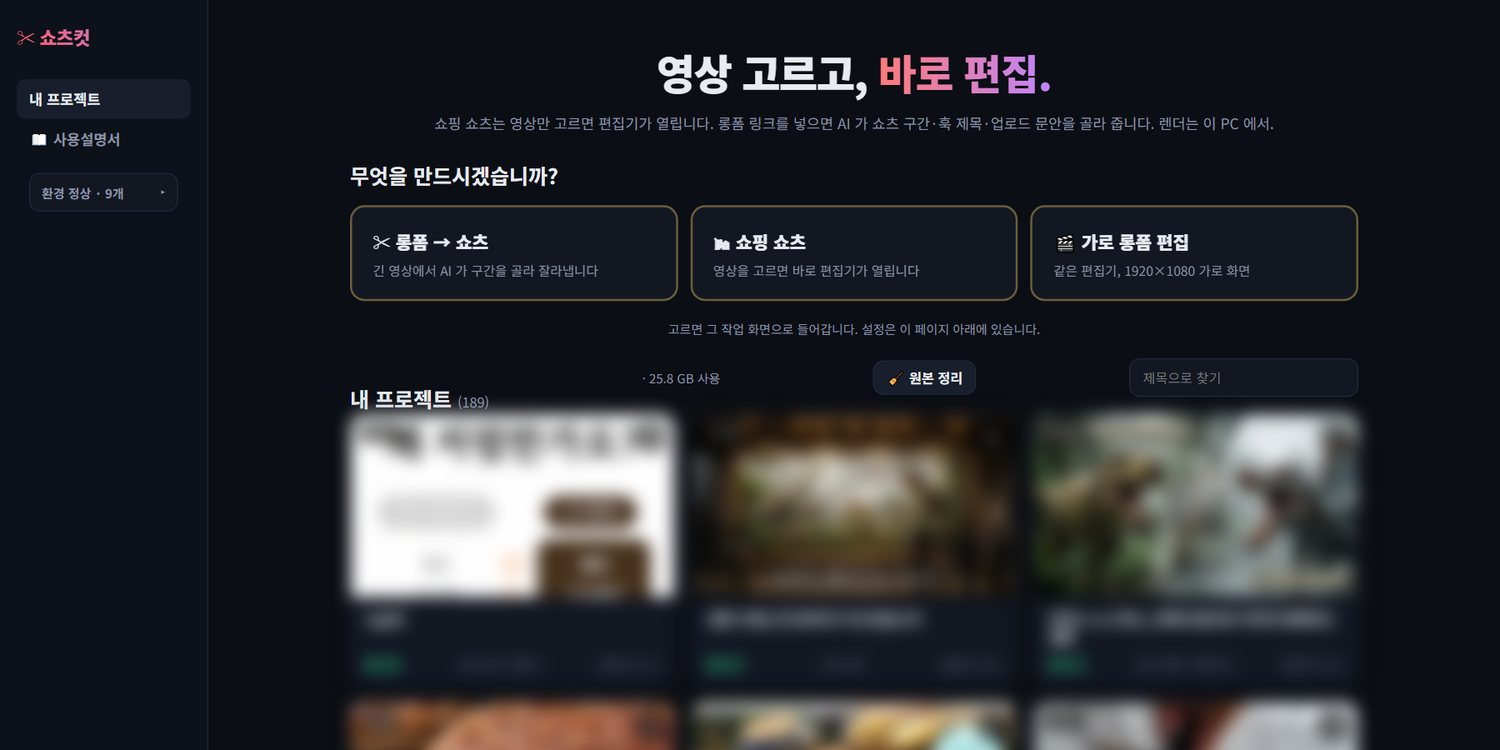
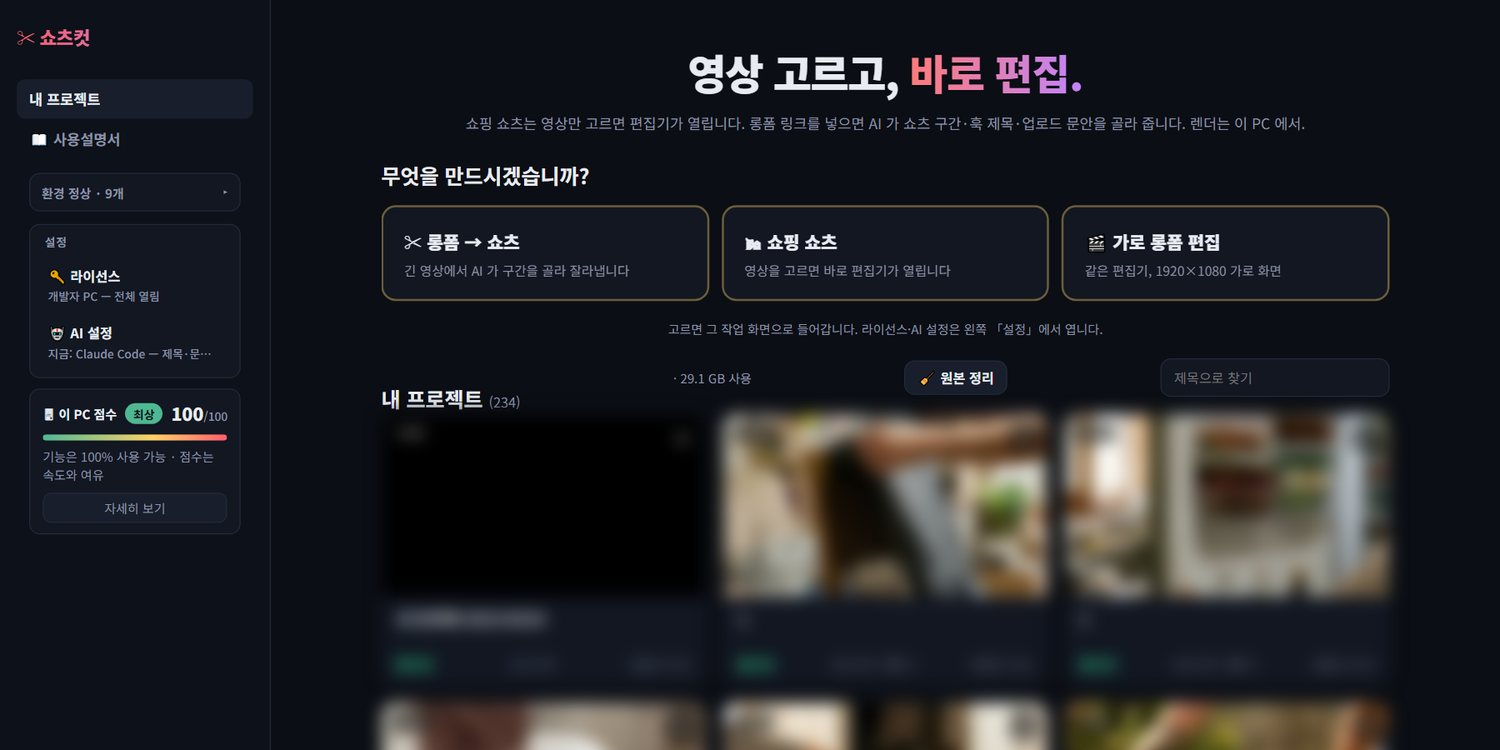
문구: 「새 판」→「업데이트」, 설명서 캡처 1.0.4 화면으로

diff --git a/guide/index.html b/guide/index.html
@@ -31,15 +31,7 @@ kbd,code{font-family:var(--mono);font-size:.88em;background:var(--bg3);padding:1
 details{background:var(--bg2);border:1px solid var(--line);border-radius:10px;padding:10px 16px;margin:8px 0}summary{cursor:pointer;font-weight:700;color:#fff}details p{margin:8px 0 2px}
 @media(max-width:820px){.wrap{grid-template-columns:1fr}nav{position:static;height:auto;border-right:0;border-bottom:1px solid var(--line)}main{padding:24px 18px 60px}}
 </style>
-<style>
-.legalfoot{margin-top:26px;padding-top:20px;border-top:1px solid #232b3a;
-  font:400 13px/1.95 "Noto Sans KR","Malgun Gothic",sans-serif;color:#8b93a6;letter-spacing:0}
-.legalfoot b{color:#c3c8d4;font-weight:700}
-.legalfoot a{color:#ffd166;text-decoration:none}
-.legalfoot a:hover{text-decoration:underline}
-.legalfoot .todo{color:#ff8a95;background:rgba(255,92,108,.12);
-  border:1px dashed rgba(255,92,108,.5);border-radius:6px;padding:1px 7px;font-size:12px}
-</style></head>
+</head>
 <body translate="no"><div class="wrap">
 <nav>
   <div class="brand"><i>✂</i> 쇼츠컷 설명서</div>
@@ -232,6 +224,7 @@ details{background:var(--bg2);border:1px solid var(--line);border-radius:10px;pa
 <li>조각 <b>우클릭</b>으로도 됩니다: 영상 1 조각은 「앞 조각과의 전환…」(자주 쓰는 것 + 무작위 + 효과 탭), 위층 조각은 「들어오기 효과…」「나가기 효과…」.</li>
 <li>롱폼→쇼츠 편집기에는 효과 탭이 없고, 조각 우클릭 「앞 조각과의 전환…」에 전체 목록이 나옵니다.</li>
 <li><b>자막 효과</b> — 트랙의 자막 조각을 <b>우클릭</b> → 「효과…」. <b>나타나기</b>(페이드 · 아래서 위로 · 확대), <b>사라지기</b>(페이드 · 위로 사라짐 · 축소), <b>강조</b>(노랑 · 빨강 · 크게)를 자막마다 따로 겁니다. 나타나기·사라지기는 0.3초. 「이 효과를 모든 자막에」로 한 번에 같은 효과를 걸고, 「모든 자막 효과 없애기」로 되돌립니다. 효과가 걸린 자막 조각은 트랙에 ✦ 표시가 붙고, 미리보기에서도 같은 색·움직임으로 보입니다. 세 편집기 모두 됩니다.</li>
+<li><b>자막 묶어 선택</b>(1.0.4) — 자막 조각을 <b>Ctrl+클릭</b>하면 하나씩 묶이고, 자막 하나를 클릭한 뒤 <b>Ctrl+A</b>를 누르면 그 트랙의 자막 전체가 선택됩니다(자막끼리만 — 영상·텍스트와 섞이지 않습니다). 선택 상태에서 하나를 끌면 전부 함께 시각이 옮겨지고, 우클릭 「효과…」는 선택 전체에 걸리며, Delete 는 선택 자막을 비웁니다. Esc 로 해제합니다.</li>
 </ul>
 <h3 id="stock-key">무료 소재 키 발급 — Pexels · Pixabay (둘 다 무료, 5분)</h3>
 <p>무료 소재 검색은 두 사이트의 API 를 쓰는데, 사이트가 "누가 얼마나 쓰는지" 세려고 사용자마다 키를 나눠 줍니다. 가입만 하면 바로 나오고 돈은 들지 않습니다. 둘 중 하나만 있어도 되고, 둘 다 넣으면 검색할 때 골라 쓸 수 있습니다.</p>
@@ -319,7 +312,7 @@ details{background:var(--bg2);border:1px solid var(--line);border-radius:10px;pa
 쇼츠·릴스·틱톡은 1080×1920 이 표준이라 대부분의 쓰임에는 이 해상도로 충분합니다.</div>
 
 <h2 id="update">8. <em>업데이트</em></h2>
-<p>홈 위쪽 <span class="btn">⟳ 업데이트 확인</span>을 누르면 새 판이 있는지 보고 받습니다. 프로젝트·설정·라이선스는 그대로 두고 프로그램 파일만 바뀝니다. 이용 기간 안에는 모든 업데이트가 포함됩니다.</p>
+<p>홈 위쪽 <span class="btn">⟳ 업데이트 확인</span>을 누르면 업데이트가 있는지 보고 받습니다. 프로젝트·설정·라이선스는 그대로 두고 프로그램 파일만 바뀝니다. 이용 기간 안에는 모든 업데이트가 포함됩니다.</p>
 
 <h2 id="faq">9. <em>자주 묻는 질문</em></h2>
 <details><summary>미리보기가 끊기거나 영상이 튀어요</summary><p>대부분 그 순간 컴퓨터가 다른 일로 바쁜 것이고 결과물에는 영향이 없습니다. <a href="#spec">내 컴퓨터 사양</a>의 확인 순서를 따라 보세요. 작업 관리자에서 CPU 를 많이 쓰는 다른 프로그램을 끝내는 것이 첫 번째입니다.</p></details>
@@ -340,7 +333,7 @@ details{background:var(--bg2);border:1px solid var(--line);border-radius:10px;pa
 <li>AI가 만든 장면이나 가상 인물이 들어가면 「AI로 만든 영상」임을 설명에 밝히세요. 실제 사용 후기처럼 말하는 문장은 넣지 마세요.</li>
 <li>조회수·수익은 프로그램이 보장하지 않습니다.</li>
 </ul>
-<div class="foot">쇼츠컷 ShortsCut · <a href="https://shortscut.kr/">shortscut.kr</a> · 이 문서의 캡처는 실제 프로그램 화면이며 채널명은 가렸습니다. 문의와 구매는 <a href="../#buy">소개 페이지의 구매 안내</a>.</div><!--legal--><div class="legalfoot"><b>동화기획</b> · 대표 김경하 · 사업자등록번호 608-09-36630 (<a href="https://www.ftc.go.kr/bizCommPop.do?wrkr_no=6080936630" target="_blank" rel="noopener">사업자정보 확인</a>)<br>통신판매업 신고 015-서울금천-1043 · 주소 서울특별시 금천구 독산로51길 45, 2층(독산동)<br>전화 050-6683-5882 · 이메일 photolark@gmail.com · 호스팅서비스 제공자 GitHub, Inc.<br><a href="/terms/">이용약관</a> · <a href="/privacy/"><b>개인정보처리방침</b></a> · <a href="/refund/">청약철회·환불</a></div><!--/legal-->
+<div class="foot">쇼츠컷 ShortsCut · <a href="https://shortscut.kr/">shortscut.kr</a> · 이 문서의 캡처는 실제 프로그램 화면이며 채널명은 가렸습니다. 문의와 구매는 <a href="../#buy">소개 페이지의 구매 안내</a>.</div>
 </main>
 </div></body>
 </html>

diff --git a/index.html b/index.html
@@ -312,7 +312,7 @@ td.y{color:var(--ok);font-weight:700}td.n{color:var(--dim)}
     <details><summary>영상 길이 제한이 있나요?</summary><p>없습니다. 분석 구간은 4분 이상이면 되고, 27분 롱폼도 그대로 넣습니다. 쇼츠 결과 길이 상한은 유튜브 기준 3분입니다.</p></details>
     <details><summary>자막 오타는 어떻게 하나요?</summary><p>대본 파일이 있으면 「대본으로 교정」 한 번으로 글자가 바뀝니다. 없으면 자막 칸에서 직접 고치고, 「한 줄에 넣기」로 줄 정리를 자동으로 합니다.</p></details>
     <details><summary>영상에 이미 자막이 박혀 있으면요?</summary><p>「가리기」로 모자이크를 덮거나, 「아래 자막 잘라내기」로 확대해 화면 밖으로 밀어냅니다.</p></details>
-    <details><summary>업데이트는 어떻게 받나요?</summary><p>프로그램 안의 「업데이트 확인」 단추가 새 판을 받아 프로젝트·설정은 그대로 두고 프로그램 파일만 바꿉니다.</p></details>
+    <details><summary>업데이트는 어떻게 받나요?</summary><p>프로그램 안의 「업데이트 확인」 단추가 업데이트를 받아 프로젝트·설정은 그대로 두고 프로그램 파일만 바꿉니다.</p></details>
     <details><summary>다른 PC로 옮길 수 있나요?</summary><p>라이선스 키는 PC 1대에 묶입니다. PC를 바꾸는 경우 새 PC의 코드를 메시지로 주시면 키를 다시 발급해 드립니다(1년에 1회 무료).</p></details>
     <details><summary>키는 어떻게 넣나요?</summary><p>설치 후 홈 화면 「🔑 라이선스」를 펼쳐 받은 키를 붙여 넣고 「등록」을 누르면 끝입니다. 인터넷 연결이 필요 없고, 키는 그 PC 안에만 저장됩니다.</p></details>
   </div>
